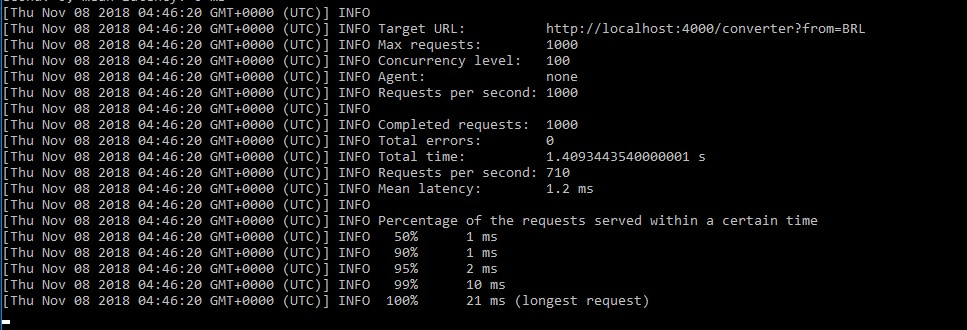
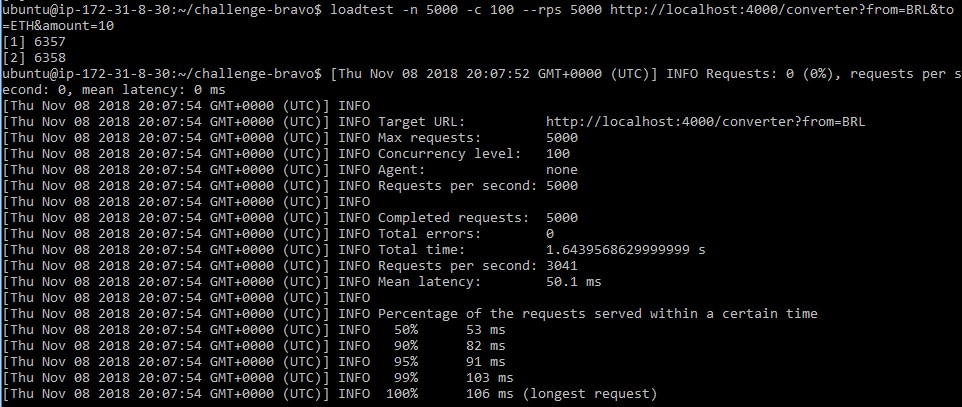
ajustes de readme e teste de carga

Changed region(s): [[0.0, 0.0, 1.0, 1.0]]

diff --git a/api/routes/converter.js b/api/routes/converter.js
@@ -94,7 +94,7 @@ function isValidCurrency(from,to){
  * @returns {boolean}
  * */
 function isConvertionAvailable(){
-    if(JSON.stringify(cache.values) != JSON.stringify({})) {
+    if(JSON.stringify(cache.values) != "{}") {
         return true
     } else {
         return false

diff --git a/README.md b/README.md
@@ -112,16 +112,6 @@ Para rodar o teste de stress com o LoadTest basta executar os seguintes comandos
 #### Resultados:
 ![loadtest](imgs/loadtest.jpg)
 
-### Artillery
-Para rodar o teste de stress com o Artillery foi criado um script chamado load_test.yml, que é executado com os seguintes comandos:
-
-	$ npm install -g artillery
-	$ artillery run load_test.yml
-
-#### Resultados
-
-![artillery](imgs/artillery.jpg)
-
 
 
 
